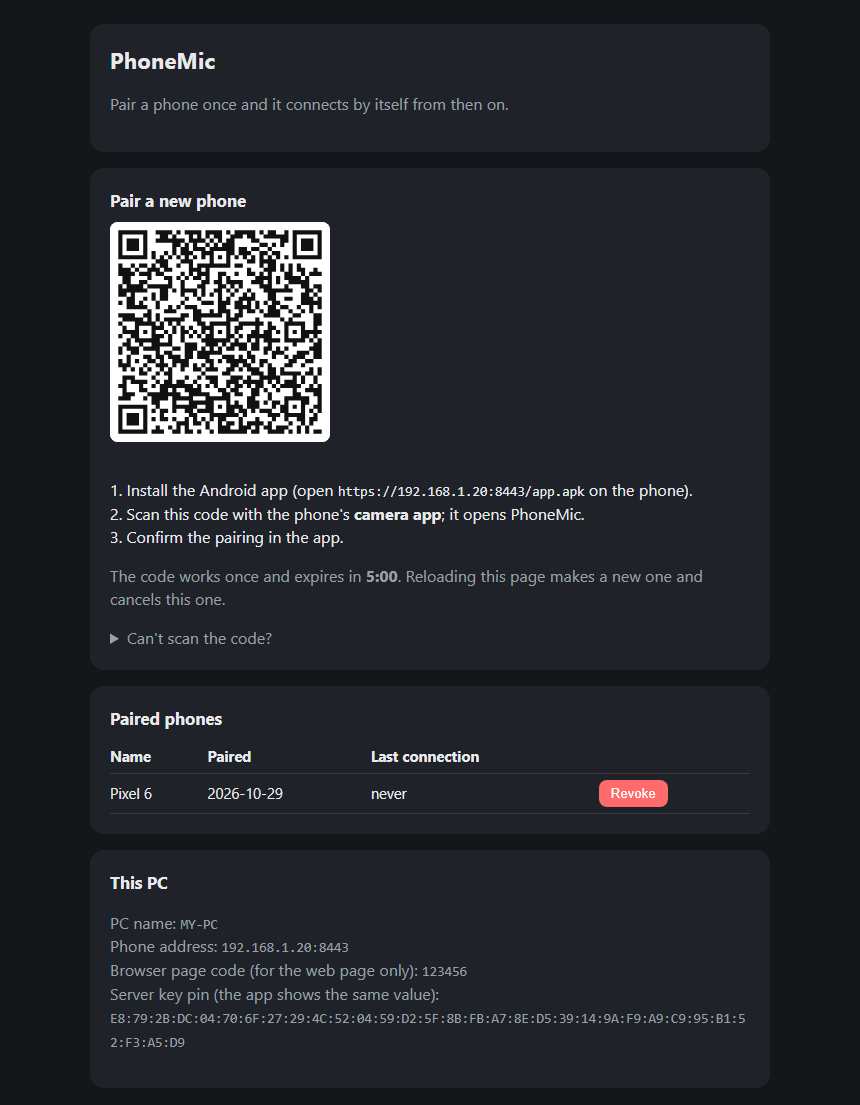
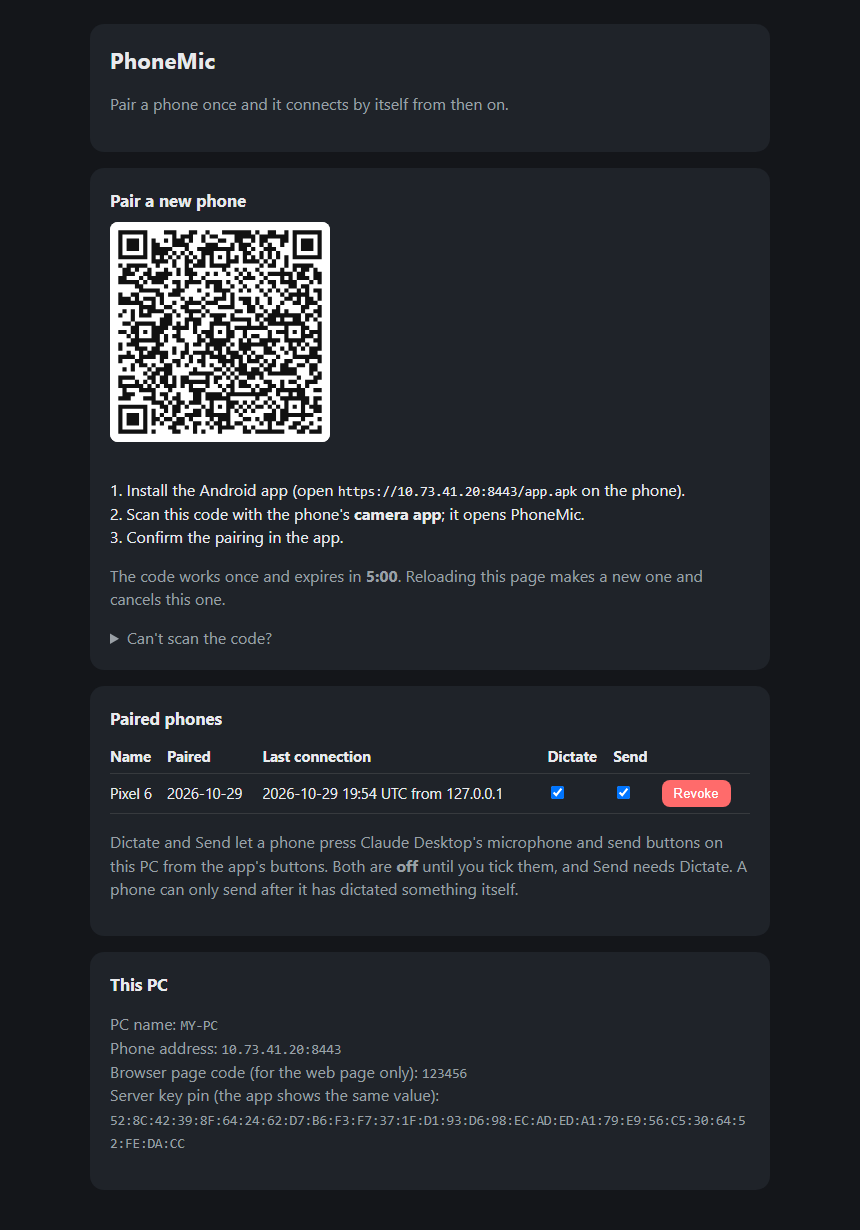
Update the README screenshots with made-up data and the new controls
The screenshots now use a sample PC (MY-PC at 10.73.41.20) and phone (Pixel 6),
and show the Dictate and Send permissions on the pairing page and the buttons
in the app. The README and the changelog describe them.

diff --git a/README.md b/README.md
@@ -17,26 +17,28 @@ Two ways to use it:
 ## How it looks
 
 **1. Pair once.** The PC shows a QR code on a page that only your PC can open (<http://127.0.0.1:8444>). The same page
-lists the phones already paired, with a button to revoke each one.
+lists the phones already paired, with a button to revoke each one and the two optional permissions (**Dictate** and
+**Send**, see [Remote dictation](#remote-dictation-claude-desktop)).
 
 <p align="center">
   <img src="docs/images/pairing-page.png" width="640"
-       alt="PhoneMic pairing page on the PC: a QR code, the list of paired phones with a Revoke button, and the PC's details">
+       alt="PhoneMic pairing page on the PC: a QR code, the list of paired phones with Dictate and Send checkboxes and a Revoke button, and the PC's details">
 </p>
 
 **2. Confirm on the phone, then stream.** Scanning the code with the phone's camera app opens PhoneMic, which asks you
 to confirm the pairing (first screenshot). From then on just press **Start** (second screenshot): there is no code to
-type, and the app finds the PC again if its address changes.
+type, and the app finds the PC again if its address changes. If the PC allows it for this phone, the **Dictate** and
+**Send** buttons appear under Start.
 
 <p align="center">
   <img src="docs/images/app-confirm.png" width="300"
        alt="Android app asking 'Pair with MY-PC?' with the PC's address and the start of its key">
   &nbsp;&nbsp;
   <img src="docs/images/app-streaming.png" width="300"
-       alt="Android app paired with MY-PC and streaming, showing the buffer statistics and the PC's key">
+       alt="Android app paired with MY-PC and streaming, showing the Stop dictating and Send buttons, the buffer statistics and the PC's key">
 </p>
 
-<sub>The screenshots use sample data: a PC called MY-PC at 192.168.1.20 and a phone called Pixel 6.</sub>
+<sub>The screenshots use sample data: a PC called MY-PC at 10.73.41.20 and a phone called Pixel 6. The dictation shown is simulated.</sub>
 
 ## Requirements
 

diff --git a/CHANGELOG.md b/CHANGELOG.md
@@ -1,6 +1,8 @@
 # Changelog
 
 ### 29/10/2026
+* Replaced the README screenshots with new ones that use made-up data (PC `MY-PC` at 10.73.41.20) and show the
+  Dictate and Send permissions and buttons. The tests no longer contain real-looking addresses, names or phone models.
 * Version 0.3.0: remote dictation. The app has **Dictate** and **Send** buttons that press Claude Desktop's microphone
   and send buttons on the PC through Windows UI Automation. Each is a separate permission, off by default, set per
   paired phone on the pairing page and applied live. Send only works after a dictation from that phone; presses are
@@ -24,7 +26,7 @@
 * The server now prints the certificate SHA-256 and serves the APK at `/app.apk`, so the phone can install it over
   Wi-Fi without a USB cable.
 * Published the project as a public GitHub repository (jmtdev0/PhoneMic) under the MIT license.
-* Release 0.1.1: the Android app's example address is now generic (192.168.1.20:8443); 0.1.0 was withdrawn.
+* Release 0.1.1: the Android app's example address is now a made-up one; 0.1.0 was withdrawn.
 * Version 0.2.0, pairing by QR code that never expires:
   * Single-use pairing tokens (5 minutes) shown as a QR code on a loopback-only pairing page, with the link also as text.
   * Each phone gets a permanent identity: a P-256 key created in the Android Keystore, proven by signing a fresh
